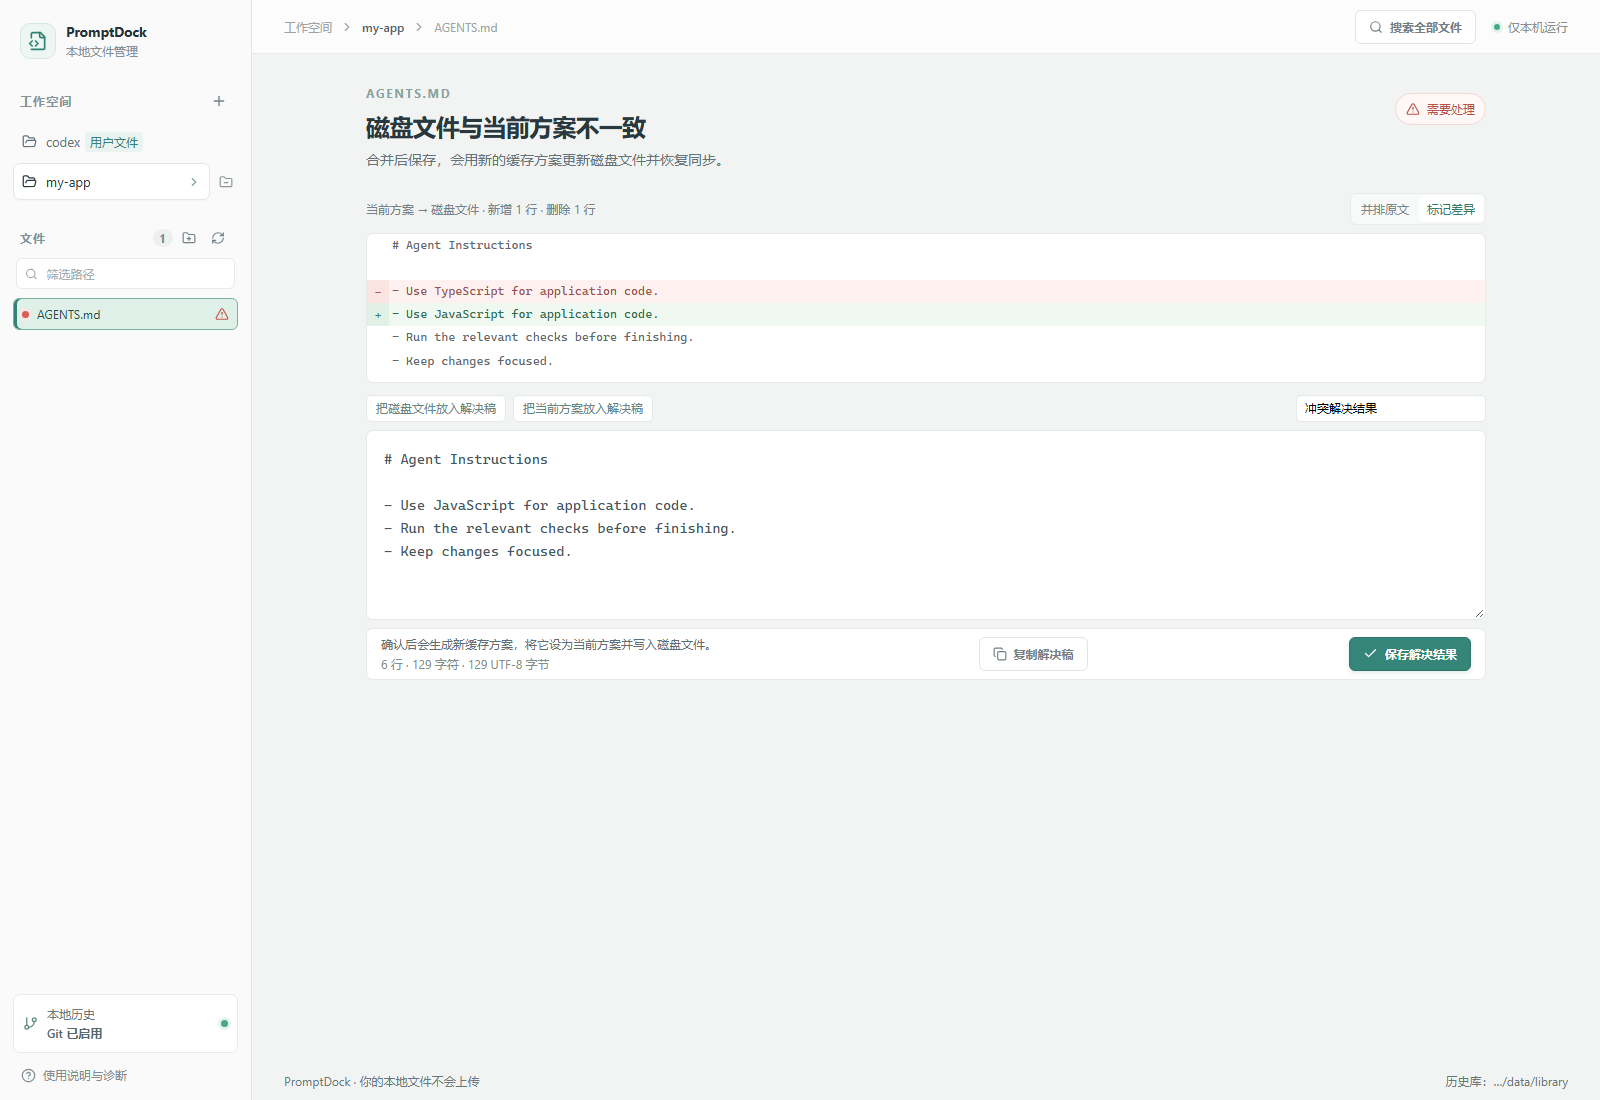
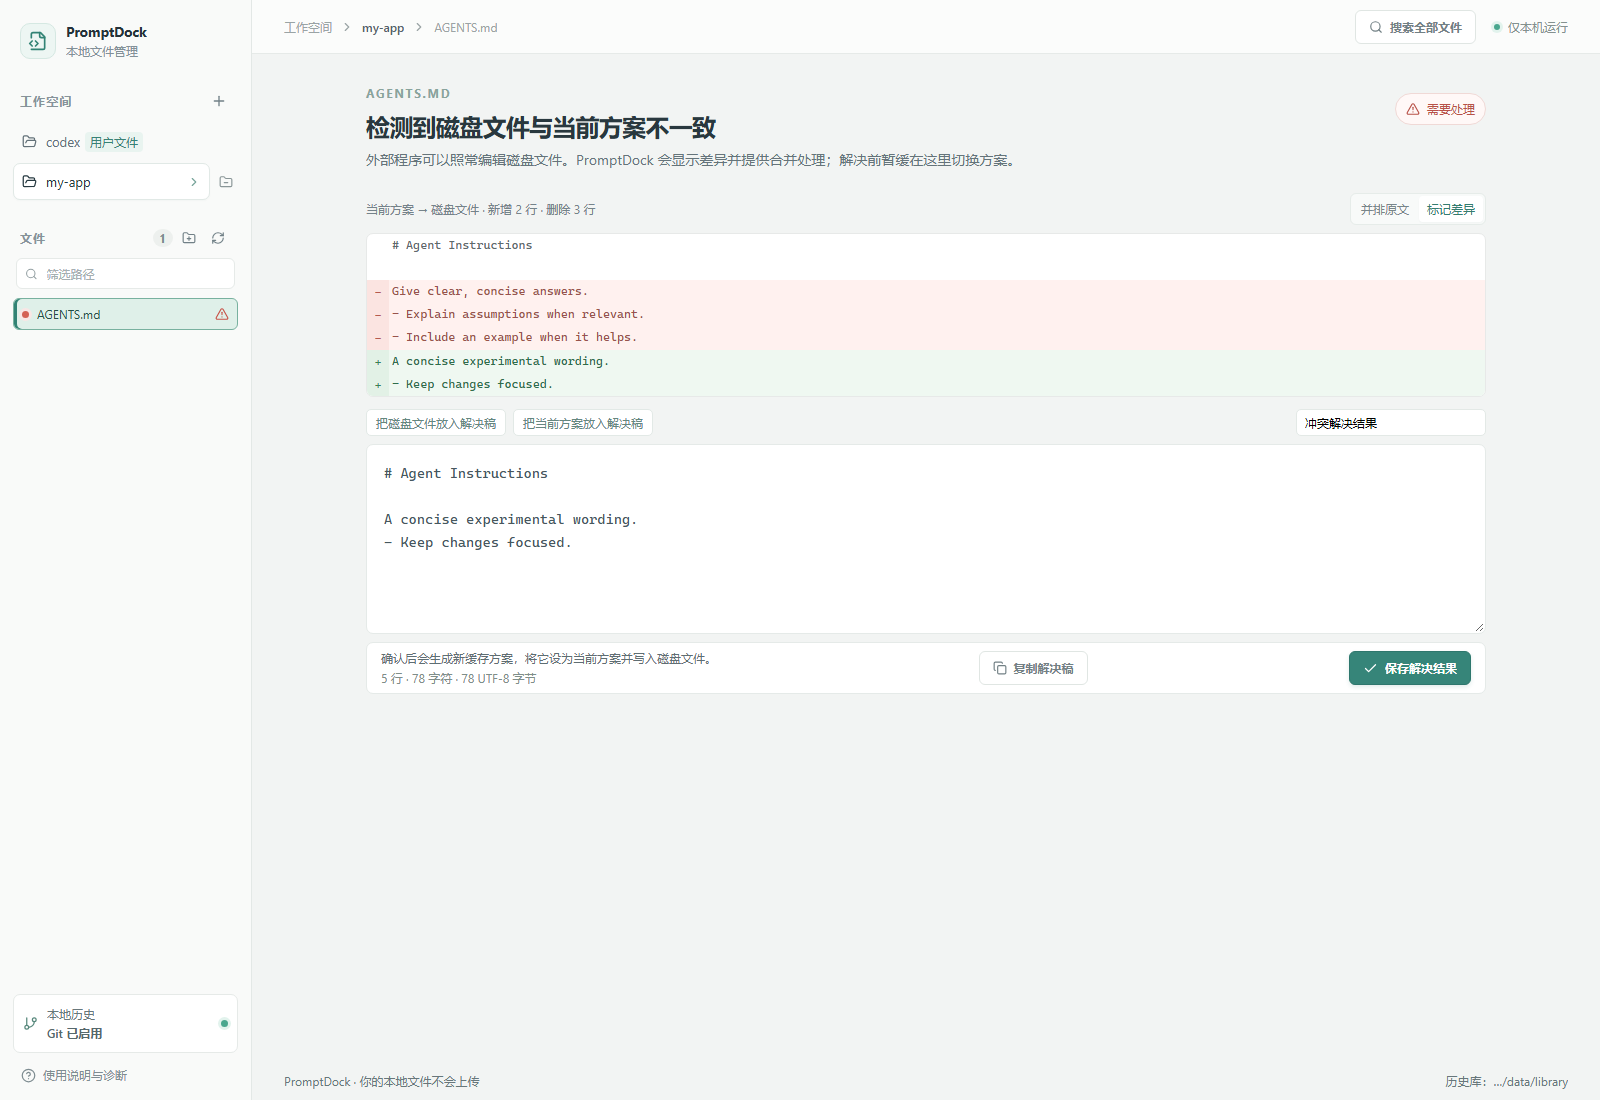
refocus messaging on prompt variant switching

diff --git a/src/client/App.tsx b/src/client/App.tsx
@@ -365,8 +365,8 @@ function App() {
           locked: false,
           archived: false,
         }
-      : target?.candidates.find((item) => item.id === compareBaseId) ??
-        lockedCandidate;
+      : (target?.candidates.find((item) => item.id === compareBaseId) ??
+        lockedCandidate);
   const compareChanges = useMemo(
     () =>
       compareBase
@@ -1352,8 +1352,7 @@ function App() {
       else if (compareOpen) setCompareOpen(false);
       else if (historyOpen) setHistoryOpen(false);
       else if (findReplaceOpen) setFindReplaceOpen(false);
-      else if (showRenameCandidateForm)
-        setShowRenameCandidateForm(false);
+      else if (showRenameCandidateForm) setShowRenameCandidateForm(false);
       else if (showCandidateForm) setShowCandidateForm(false);
       else if (showWorkspaceForm) setShowWorkspaceForm(false);
       else return;
@@ -1535,7 +1534,9 @@ function App() {
           {selectedWorkspace && workspaceTargets.length === 0 ? (
             <div className="empty-rules">
               <strong>没有发现磁盘文件 AGENTS.md</strong>
-              <span>工作空间已登记，可以在根目录创建磁盘文件和首个缓存方案。</span>
+              <span>
+                工作空间已登记，可以在根目录创建磁盘文件和首个缓存方案。
+              </span>
               <button
                 disabled={busy}
                 onClick={() =>
@@ -1610,12 +1611,12 @@ function App() {
             <div className="welcome-symbol">
               <FileCode2 size={30} />
             </div>
-            <p className="eyebrow">LOCAL FILE MANAGER</p>
+            <p className="eyebrow">AGENT INSTRUCTION VARIANTS</p>
             <h1>
-              把文件和缓存方案，<span>一目了然。</span>
+              一份 AGENTS.md，<span>多个提示词方案，随时切换。</span>
             </h1>
             <p>
-              添加一个本机目录，扫描 AGENTS.md，管理可切换的缓存方案；当前方案与磁盘文件保持一致。
+              想尝试不同版本，不必手动备份、复制或覆盖文件。分别保存多个缓存方案，选中并确认差异后即可切换。
               <br />
               磁盘文件和缓存方案都只保存在你的设备上。
             </p>
@@ -1646,8 +1647,11 @@ function App() {
             <div className="page-title">
               <div>
                 <p className="eyebrow">{relativePath}</p>
-                <h1>磁盘文件与当前方案不一致</h1>
-                <p>合并后保存，会用新的缓存方案更新磁盘文件并恢复同步。</p>
+                <h1>检测到磁盘文件与当前方案不一致</h1>
+                <p>
+                  外部程序可以照常编辑磁盘文件。PromptDock
+                  会显示差异并提供合并处理；解决前暂缓在这里切换方案。
+                </p>
               </div>
               <span className="status danger">
                 <AlertTriangle size={14} />
@@ -1733,7 +1737,9 @@ function App() {
             />
             <div className="editor-footer">
               <span className="resolution-save-info">
-                <span>确认后会生成新缓存方案，将它设为当前方案并写入磁盘文件。</span>
+                <span>
+                  确认后会生成新缓存方案，将它设为当前方案并写入磁盘文件。
+                </span>
                 <small
                   data-testid="resolution-content-stats"
                   title="行数按换行拆分；空文档计 1 行，结尾换行会保留空行。字符数按 Unicode 码点计数；字节数按 UTF-8 编码计算。"
@@ -1769,8 +1775,11 @@ function App() {
             <div className="page-title">
               <div>
                 <p className="eyebrow">{relativePath}</p>
-                <h1>文件管理</h1>
-              <p>选择缓存方案会将它加载到编辑器；切换当前方案会把所选方案写入磁盘文件。</p>
+                <h1>Agent 指令方案</h1>
+                <p>
+                  为同一份 AGENTS.md
+                  保存多套提示词；想尝试其他版本时，选中方案并确认差异即可切换。
+                </p>
               </div>
               <span className="status">
                 <span className="live-dot" />
@@ -1816,8 +1825,8 @@ function App() {
                               );
                             setCompareBaseId(
                               candidate.locked
-                                ? otherCandidate?.id ?? ""
-                                : lockedCandidate?.id ?? "",
+                                ? (otherCandidate?.id ?? "")
+                                : (lockedCandidate?.id ?? ""),
                             );
                             setCompareOpen(true);
                           }
@@ -1885,9 +1894,7 @@ function App() {
                         busy || dirty || target.conflict || candidate.locked
                       }
                       title={
-                        candidate.locked
-                          ? "当前方案不能删除"
-                          : "删除此缓存方案"
+                        candidate.locked ? "当前方案不能删除" : "删除此缓存方案"
                       }
                       onClick={() => void deleteCurrentCandidate()}
                     >
@@ -2275,7 +2282,9 @@ function App() {
                       onClick={() => void saveCurrentCandidate()}
                     >
                       <Save size={15} />
-                      {candidate?.locked ? "保存当前方案并同步磁盘文件" : "保存方案"}
+                      {candidate?.locked
+                        ? "保存当前方案并同步磁盘文件"
+                        : "保存方案"}
                     </button>
                   </div>
                 </div>
@@ -2665,7 +2674,8 @@ function App() {
               </button>
             </div>
             <p className="modal-description">
-              对比基准：所选历史版本；对比对象：当前编辑器（含未保存修改）。历史版本只读；从历史版本 Fork 缓存方案不会改写历史记录或磁盘文件。
+              对比基准：所选历史版本；对比对象：当前编辑器（含未保存修改）。历史版本只读；从历史版本
+              Fork 缓存方案不会改写历史记录或磁盘文件。
             </p>
             {historyError ? (
               <p className="history-error">读取历史失败：{historyError}</p>
@@ -3087,8 +3097,8 @@ function App() {
               本地诊断日志：<code>{state.diagnosticsPath || "尚未生成"}</code>
             </p>
             <p>
-              工作空间目录通过粘贴本机路径添加。磁盘文件保存在目标路径；缓存方案和 Git
-              历史保存在本机数据目录。当前方案与磁盘文件保持一致。
+              工作空间目录通过粘贴本机路径添加。磁盘文件保存在目标路径；缓存方案和
+              Git 历史保存在本机数据目录。当前方案与磁盘文件保持一致。
             </p>
             <a
               className="log-link"

diff --git a/index.html b/index.html
@@ -4,27 +4,45 @@
     <meta charset="UTF-8" />
     <meta name="viewport" content="width=device-width, initial-scale=1.0" />
     <meta name="theme-color" content="#f3f5f4" />
-    <meta name="description" content="PromptDock 是本机运行的 AGENTS.md 管理器：管理多个独立缓存方案、切换磁盘文件，并查看各方案的历史版本。Local-first, private by design." />
-    <meta name="keywords" content="AGENTS.md manager, AI agent instructions, agent rules, cache plans, version history, 本地 AGENTS.md 管理器, AI 指令文件, 缓存方案, 历史版本" />
+    <meta
+      name="description"
+      content="为同一份 AGENTS.md 保存多个提示词版本，随时试用和切换，无需手动备份、复制或覆盖文件。Local-first AGENTS.md prompt variant manager and switcher with per-plan history."
+    />
+    <meta
+      name="keywords"
+      content="AGENTS.md manager, AGENTS.md prompt variants, prompt version manager, AI agent instruction switcher, prompt presets, cache plans, version history, AGENTS.md 多提示词版本, Agent 指令方案切换, 提示词多版本管理, 缓存方案"
+    />
     <meta name="robots" content="index,follow,max-image-preview:large" />
     <meta property="og:type" content="website" />
     <meta property="og:site_name" content="PromptDock" />
-    <meta property="og:title" content="PromptDock — AGENTS.md Manager | 磁盘文件与缓存方案" />
-    <meta property="og:description" content="Manage multiple local instruction plans for AGENTS.md, switch the active disk file, and browse per-plan history. 在本机管理多个缓存方案并查看各自历史版本。" />
+    <meta
+      property="og:title"
+      content="PromptDock — AGENTS.md Prompt Versions | 提示词方案管理与切换"
+    />
+    <meta
+      property="og:description"
+      content="Keep multiple prompt versions for one AGENTS.md, experiment, compare, and switch without manual backups or file copies. 为同一份 AGENTS.md 保存多个提示词方案，随时试用切换，不再手动备份和覆盖。"
+    />
     <meta property="og:locale" content="zh_CN" />
     <meta property="og:locale:alternate" content="en_US" />
     <meta name="twitter:card" content="summary_large_image" />
-    <title>PromptDock — AGENTS.md Manager | 磁盘文件与缓存方案</title>
+    <title>
+      PromptDock — AGENTS.md 提示词多版本管理 | Prompt Variant Switcher
+    </title>
     <script type="application/ld+json">
       {
         "@context": "https://schema.org",
         "@type": "SoftwareApplication",
         "name": "PromptDock",
-        "alternateName": ["PromptDock AGENTS.md Manager", "PromptDock AGENTS.md 管理器"],
+        "alternateName": [
+          "PromptDock AGENTS.md Prompt Manager",
+          "Prompt Variant Switcher",
+          "PromptDock 提示词方案管理器"
+        ],
         "applicationCategory": "DeveloperApplication",
         "operatingSystem": "Windows, macOS, Linux",
-        "description": "A local-first AGENTS.md manager for creating and switching multiple instruction cache plans, with separate version history for each plan. 本机运行的 AGENTS.md 管理器，用于管理多个缓存方案、切换磁盘文件并查看各方案的历史版本。",
-        "softwareVersion": "0.2.0",
+        "description": "Manage multiple prompt versions for one AGENTS.md, experiment with changes, and switch without manually backing up or copying files. Local-first, with independent history for every cache plan. 为同一份 AGENTS.md 管理多个提示词版本，方便试验和切换，免去手动备份、复制和覆盖。",
+        "softwareVersion": "0.2.1",
         "isAccessibleForFree": true
       }
     </script>

diff --git a/README.md b/README.md
@@ -1,8 +1,15 @@
-# PromptDock — AGENTS.md 磁盘文件与缓存方案管理器
+# PromptDock — AGENTS.md 多提示词方案管理与切换 | Prompt Variant Switcher
 
-**在本机管理 AI agent 指令文件的多个缓存方案、切换当前方案，并查看每个方案自己的历史版本。** PromptDock 是一个本地优先的桌面浏览器应用，适用于 Codex 等读取 `AGENTS.md` 的开发工具。文件内容、缓存方案与历史版本都留在你的设备上。
+**为同一份 `AGENTS.md` 保存多个提示词方案，尝试不同版本并随时切换。** 不必每次手动复制旧稿、覆盖文件，再想办法保存之前的内容。PromptDock 把多个缓存方案独立保存；选中要使用的方案并确认差异后，同步到 agent 实际读取的磁盘文件。每个方案还有自己的历史版本，应用在本机运行，文件正文不会上传。
 
-> **核心模型：磁盘文件 + 缓存方案。** 一个目录路径对应唯一的 `AGENTS.md` 磁盘文件；一个磁盘文件可以有多个独立的缓存方案。每个方案都有自己的历史版本。当前方案应与磁盘文件保持一致；切换方案时，PromptDock 会先预览差异，确认后再将方案写入磁盘文件。外部程序改动磁盘文件时，PromptDock 会提示冲突并要求先合并。
+> **核心模型：一份磁盘文件，多套缓存方案。** 一个目录路径只有一个 agent 实际读取的 `AGENTS.md` 磁盘文件；你可以围绕这份文件保存和试验多套提示词方案。选中要使用的方案后，预览差异并确认即可同步到磁盘文件；无需手工复制旧稿、覆盖或重命名文件。外部程序可以照常改动磁盘文件；PromptDock 检测到磁盘文件与当前方案不一致时，会提示差异并提供合并处理。解决前，PromptDock 会暂缓切换方案。
+
+## 解决的麻烦
+
+- **想试不同版本的提示词：** 围绕同一个 `AGENTS.md` Fork 和编辑多个缓存方案，保留稳定稿与实验稿。
+- **不再手工备份和覆盖：** 方案各自保存；选中想用的版本，确认差异后同步到唯一的 `AGENTS.md`。
+- **不用复制文件或改文件名：** agent 始终读取同一份磁盘文件，方案切换由 PromptDock 管理。
+- **改过的内容可追溯：** 每个缓存方案独立保存历史版本，随时比较或 Fork 旧稿。
 
 ## 快速开始
 
@@ -22,18 +29,18 @@ pnpm start
 
 再打开 <http://127.0.0.1:4317>。GitHub 上的[完整中文指南](#中文使用指南)包含 Windows 启动方式、操作说明和本地数据位置。
 
-## 用一个例子理解磁盘和缓存
+## 用一个例子理解多方案切换
 
-假设项目磁盘上已有 `my-app/AGENTS.md`，其中要求 agent 使用 TypeScript。你可以从它 Fork 出“严格类型检查”和“快速原型”两个**缓存方案**，分别编辑和保存；每次保存都会给相应方案增加一个**历史版本**。之后选择“严格类型检查”，预览它与磁盘文件的差异并确认，磁盘上的 `AGENTS.md` 就会被同步。方案切换不删除其他方案；你可以随时查看或 Fork 某个方案的历史版本。
+假设你想调整 `my-app/AGENTS.md` 的提示词语气和约束。先保留现在可用的“稳定版”，再 Fork 一份“精简表达实验版”修改。比较后觉得实验版不合适，就切回“稳定版”；想继续探索，再 Fork 新方案。每个**缓存方案**都独立保存，编辑保存会记录自己的**历史版本**。不必把文件改名、手工复制旧内容，或担心新稿覆盖后找不回旧稿。
 
-| 名称 | 表示什么 | 例子 |
-| --- | --- | --- |
-| 磁盘文件 | 目标路径上真实存在、agent 实际读取的唯一文件 | `my-app/AGENTS.md` |
-| 缓存方案 | 同一磁盘文件的独立内容选项，可编辑、归档和切换 | “严格类型检查”“快速原型” |
-| 历史版本 | 某个缓存方案保存时留下的只读快照 | “严格类型检查”的上一次保存 |
-| 当前方案 | 当前与磁盘文件同步的方案 | 切换后写入 `AGENTS.md` 的方案 |
+| 名称     | 表示什么                                             | 例子                          |
+| -------- | ---------------------------------------------------- | ----------------------------- |
+| 磁盘文件 | 目标路径上真实存在、agent 实际读取的唯一文件         | `my-app/AGENTS.md`            |
+| 缓存方案 | 同一份指令文件的独立内容版本，可编辑、归档和快速切换 | “稳定版”“精简表达实验版”      |
+| 历史版本 | 某个缓存方案保存时留下的只读快照                     | “稳定版”的上一次保存          |
+| 当前方案 | 当前与磁盘文件同步的方案                             | 切换后写入 `AGENTS.md` 的方案 |
 
-![PromptDock 的文件和缓存方案管理界面](docs/screenshots/zh-main.png)
+![PromptDock 通过方案列表快速切换 Agent 指令](docs/screenshots/zh-main.png)
 
 ### 历史版本与差异
 
@@ -43,7 +50,7 @@ pnpm start
 
 ### 外部修改与冲突处理
 
-如果 agent 或其他编辑器改动了磁盘文件，导致它与当前方案不一致，PromptDock 会阻止直接切换。你可以对照磁盘文件和当前方案，形成新的解决稿，再一次性保存并恢复同步。
+agent 和其他编辑器可以照常改动磁盘文件。PromptDock 检测到磁盘文件与当前方案不一致时，会提示差异并提供解决方式；你可以对照两边内容形成合并稿。解决前，PromptDock 只会暂缓通过它切换缓存方案，不会限制外部程序读写磁盘文件。
 
 ![PromptDock 的磁盘文件冲突处理界面](docs/screenshots/zh-conflict.png)
 
@@ -111,20 +118,20 @@ pnpm exec playwright install chromium
 
 ## English guide
 
-PromptDock is a local-first **AGENTS.md manager** for people who maintain different instruction sets for AI coding agents. It runs on your computer and keeps file contents and Git history local.
+PromptDock is a local-first **AGENTS.md prompt variant manager and switcher**. Keep multiple prompt versions for the same `AGENTS.md`, experiment with new wording, and switch back whenever you want. You no longer need to manually copy the old prompt aside, overwrite the file, or rename files. PromptDock syncs the selected cache plan to the one disk file your agent reads; file contents and history stay on your device.
 
-### The disk file and cache plans
+### Experiment with multiple prompt versions
 
-Think of the model as one disk file and several cache plans. A directory has one `AGENTS.md` disk file, which is the file an agent reads. Cache plans are independent alternatives for that file. Each plan has its own saved version history.
+For example, you want to experiment with the tone and constraints in `my-app/AGENTS.md`. Keep the current “Stable” version, then Fork an “Experimental concise wording” cache plan and edit it. Compare the two, switch to the one you want, and keep the other as-is. Each plan has its own history. You do not need to manually copy the old prompt, overwrite the file, or rename files to switch back. Open a plan's history to compare or Fork an earlier snapshot; history browsing never rewrites the disk file.
 
-For example, start with `my-app/AGENTS.md` and Fork two plans: “Strict TypeScript” and “Rapid prototyping.” Edit and save each plan independently. When you switch the current plan, PromptDock previews its diff against the disk file and writes it only after you confirm. Later, open that plan's history to compare or Fork an earlier snapshot. History browsing never rewrites the disk file.
+Other programs can keep editing the disk file normally. If PromptDock detects that it no longer matches the current plan, it shows the differences and offers a merge flow. Only switching through PromptDock is paused until you resolve the mismatch.
 
-| Term | Meaning |
-| --- | --- |
-| Disk file | The single `AGENTS.md` at a target directory; the agent reads this file. |
-| Cache plan | An independent, editable alternative for the disk file. |
-| Version history | Read-only snapshots saved by one cache plan. |
-| Current plan | The plan synchronized with the disk file. |
+| Term            | Meaning                                                                  |
+| --------------- | ------------------------------------------------------------------------ |
+| Disk file       | The single `AGENTS.md` at a target directory; the agent reads this file. |
+| Cache plan      | An independent prompt version you can edit and switch to the disk file.  |
+| Version history | Read-only snapshots saved by one cache plan.                             |
+| Current plan    | The plan synchronized with the disk file.                                |
 
 ### Screenshots
 
@@ -155,7 +162,8 @@ Then open <http://127.0.0.1:4317>. The service listens on the local loopback int
 ### Features
 
 - Add local directories and scan for `AGENTS.md` files.
-- Create, Fork, rename, archive, search, and switch independent cache plans.
+- Keep multiple prompt variants for one `AGENTS.md`; experiment and switch without manual backups, copies, overwrites, or renames.
+- Fork, rename, archive, and search independent cache plans.
 - Save per-plan history in local Git; compare snapshots and Fork an earlier version.
 - Preview disk-file and plan diffs before switching.
 - Resolve external-edit conflicts with a merge draft before synchronizing again.
